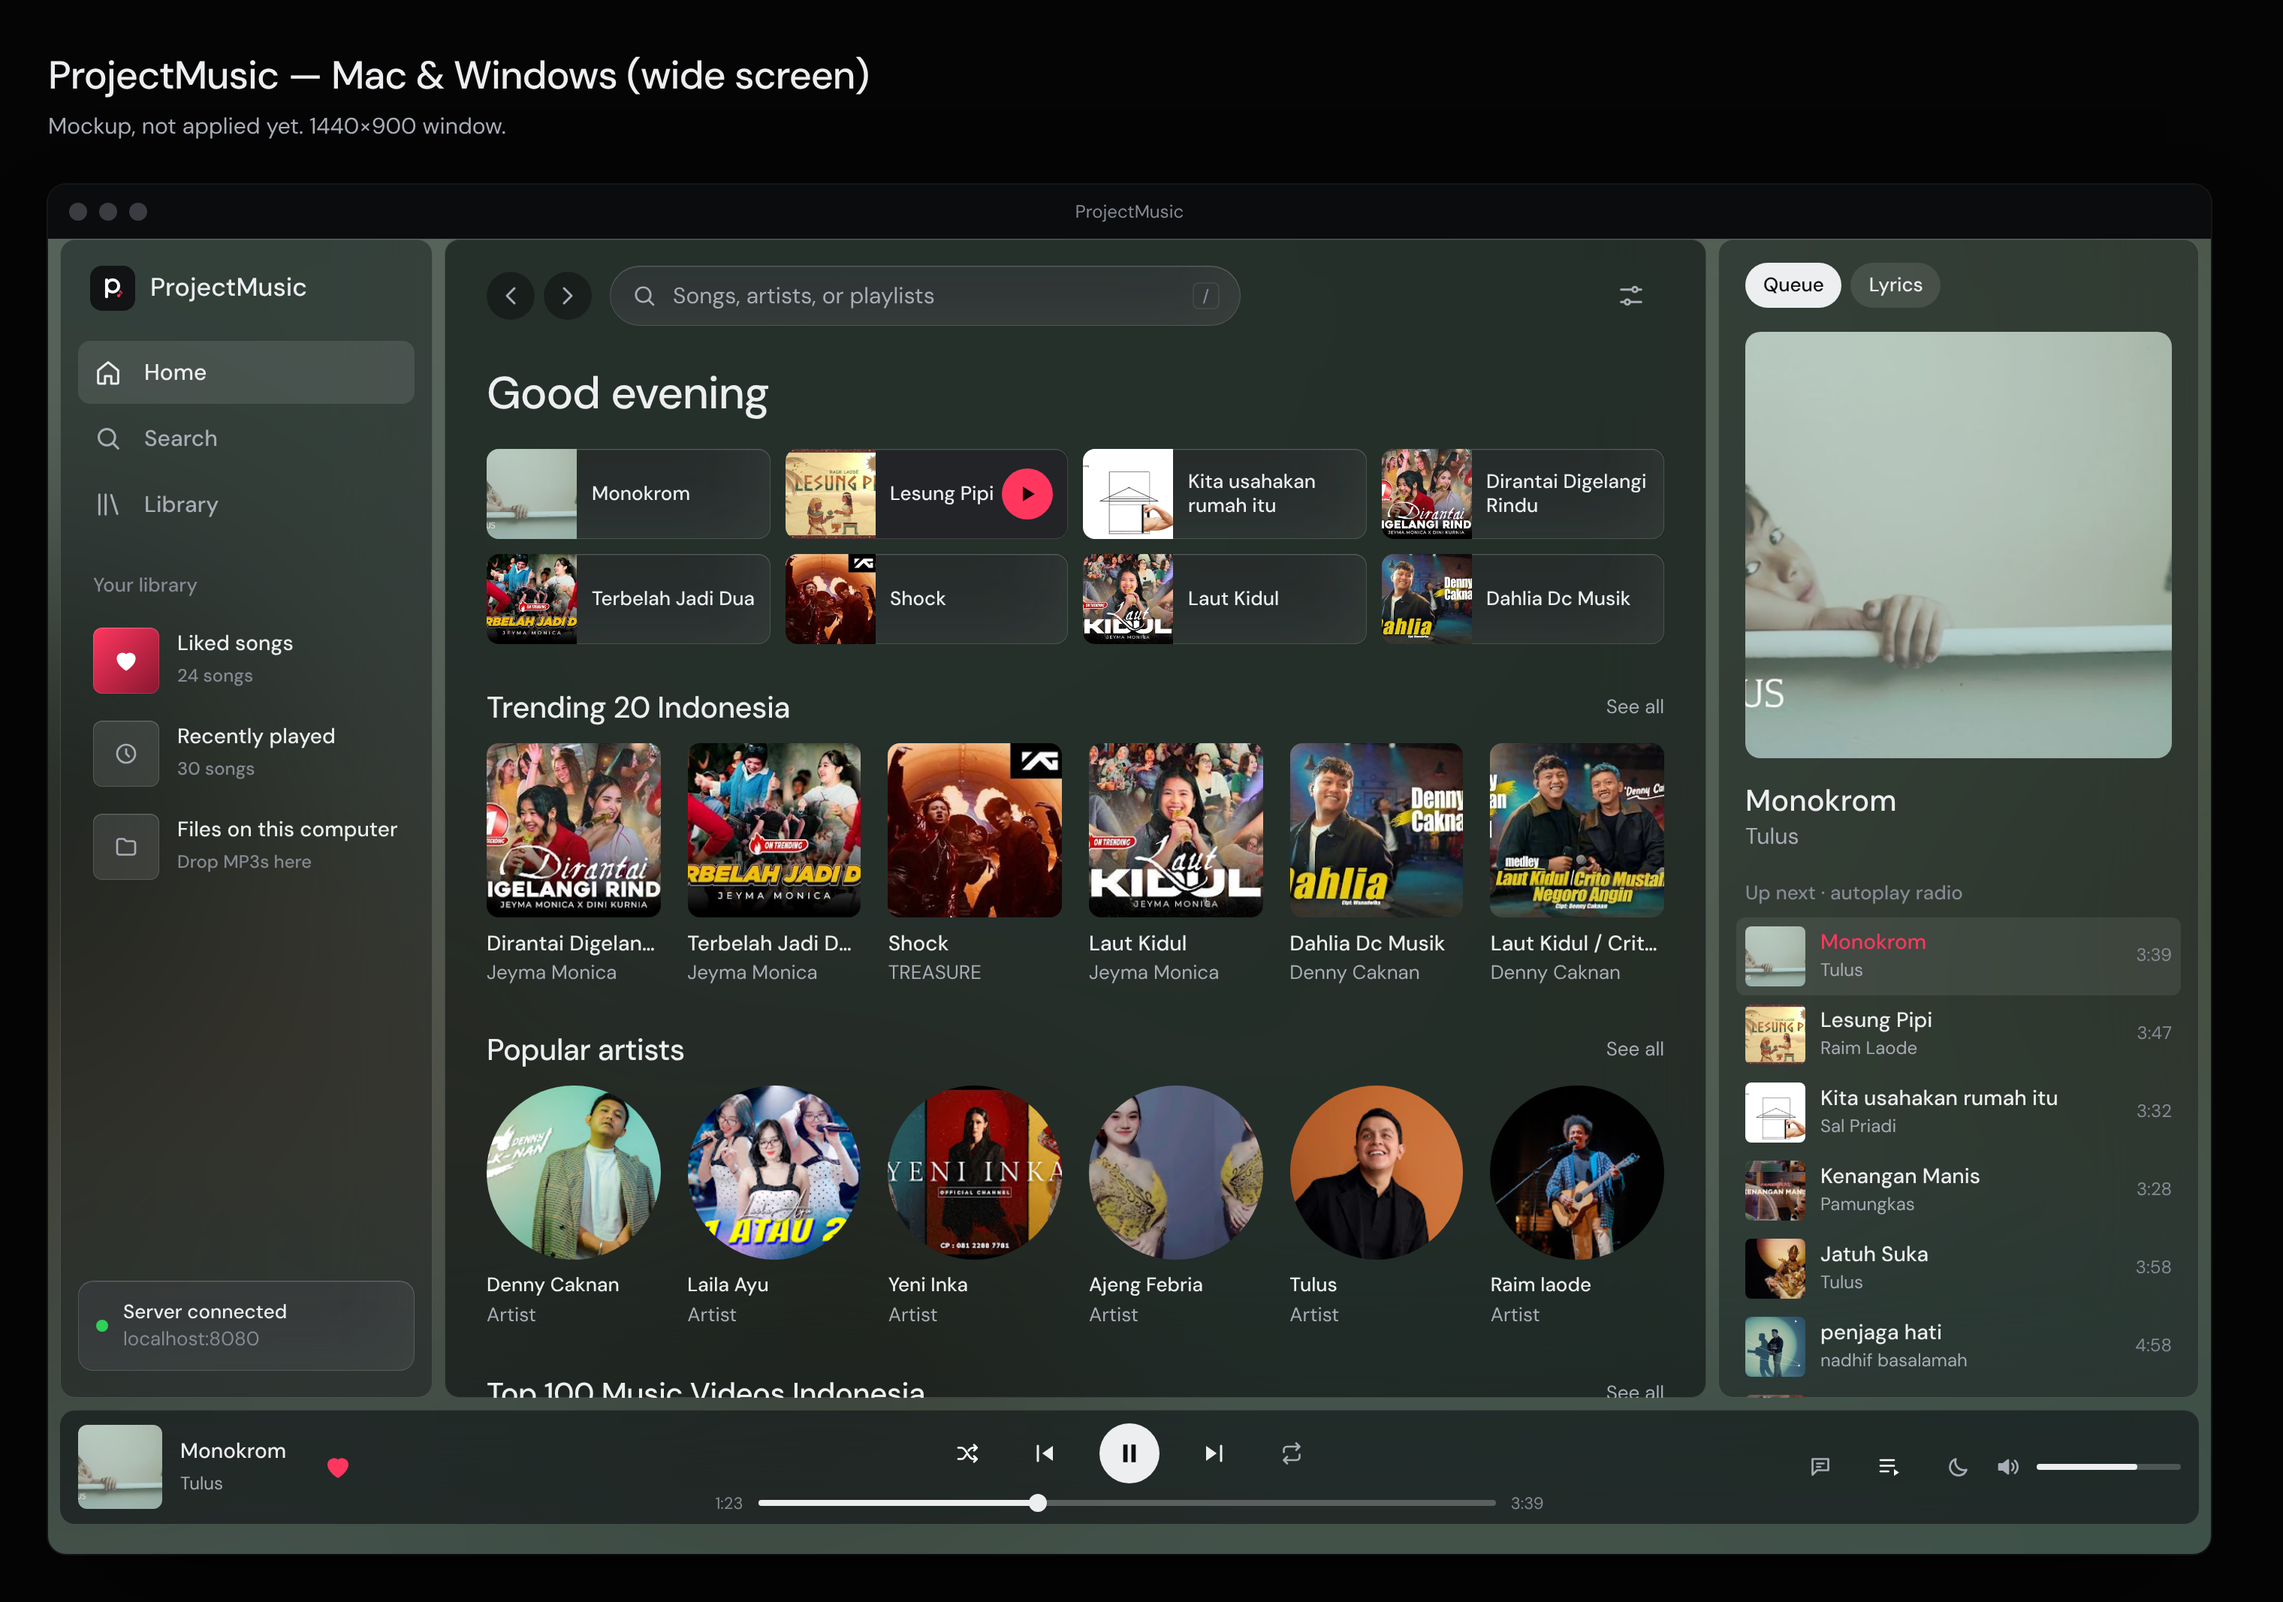
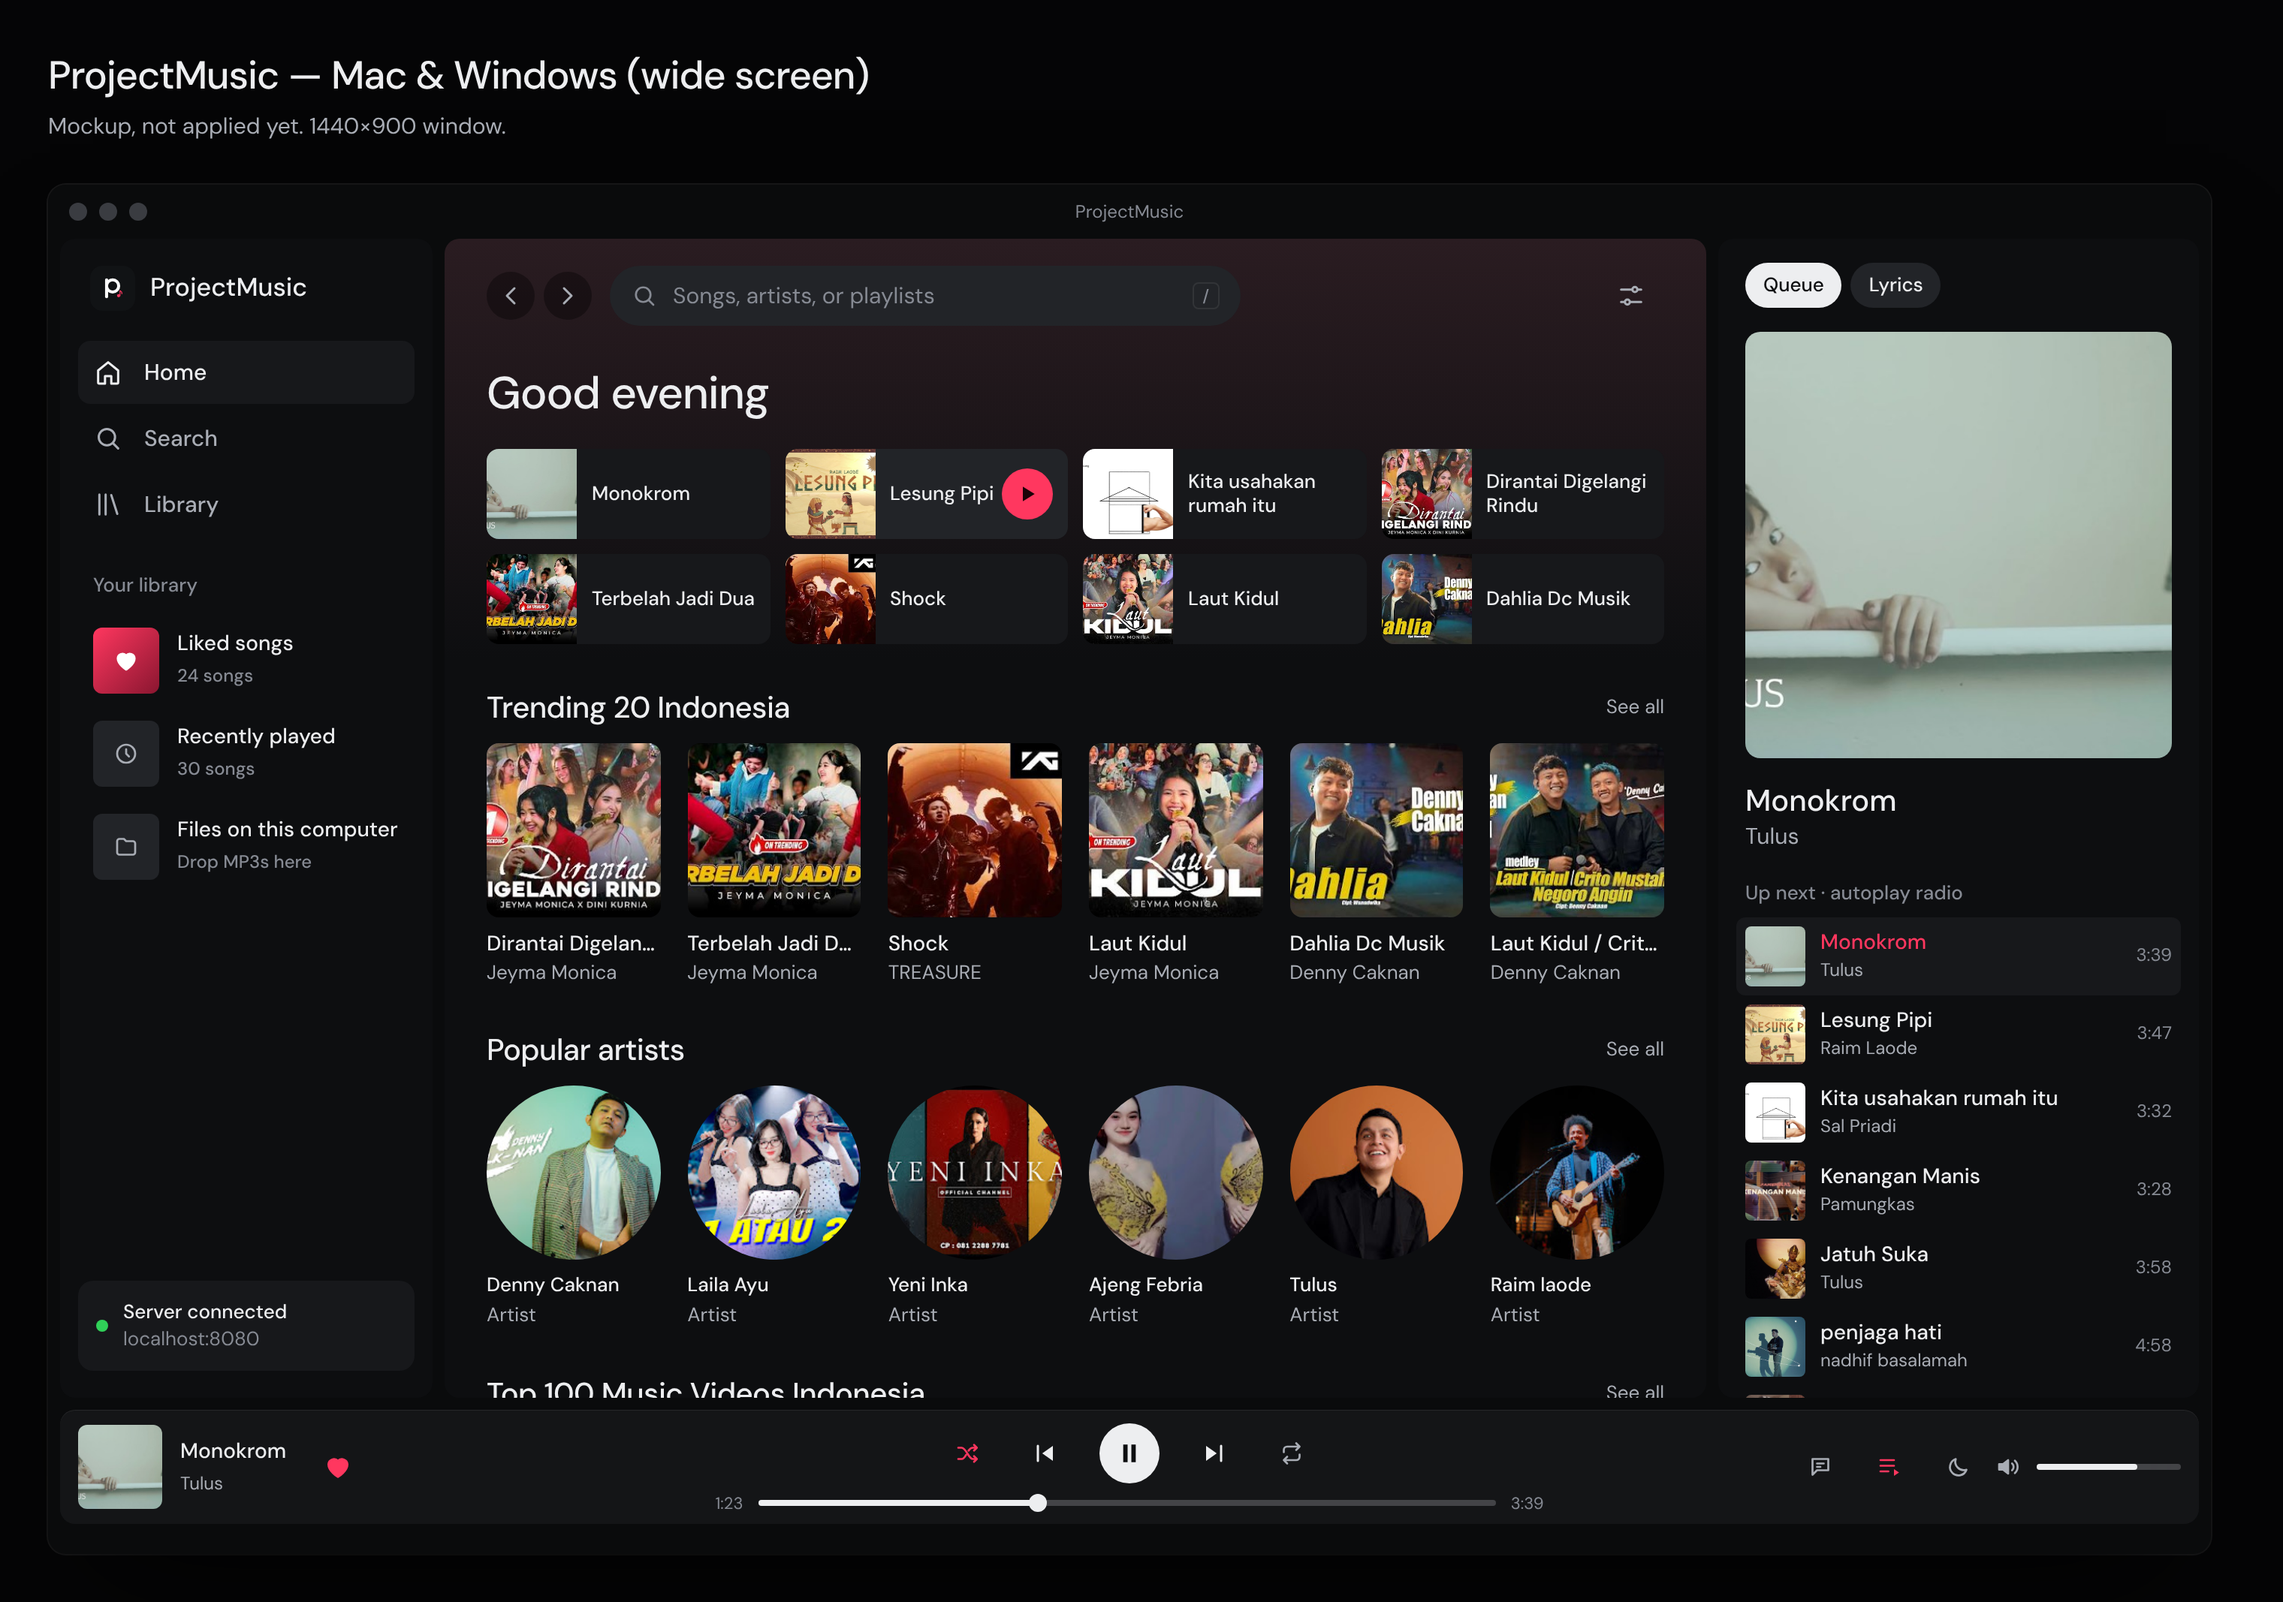
Kurangi efek kaca pada mockup
Kaca tipis hanya untuk elemen yang melayang (bilah tab, mini player,
menu lagu, bilah pemutar desktop); konten dan panel kembali solid,
latar sampul hanya rona lembut di layar pemutar.

diff --git a/docs/desain/glass.css b/docs/desain/glass.css
@@ -1,51 +1,26 @@
-/* Material kaca transparan (gaya Apple). Dimuat setelah mockup.css/desktop.css.
-   Di aplikasi nanti: otomatis jadi solid di HP lemah dan saat
-   "prefers-reduced-transparency" aktif. */
+/* Kaca tipis (versi lebih tenang): material kaca HANYA untuk elemen yang melayang
+   di atas konten — bilah tab, mini player, menu lagu, dan bilah pemutar desktop.
+   Konten tetap solid. Di aplikasi: otomatis solid di HP lemah / Reduce Transparency. */
 :root{
-  --glass:rgba(28,29,33,.52);
-  --glass-strong:rgba(22,23,26,.68);
-  --glass-chip:rgba(255,255,255,.12);
-  --glass-edge:inset 0 0 0 .5px rgba(255,255,255,.14), inset 0 1px 0 rgba(255,255,255,.08);
-  --blur:blur(28px) saturate(180%);
+  --glass:rgba(23,24,27,.78);
+  --glass-edge:inset 0 0 0 .5px rgba(255,255,255,.10);
+  --blur:blur(20px) saturate(140%);
 }
 /* ---------- HP ---------- */
-.phone{isolation:isolate;background:#0b0c0e}
-.ambient{position:absolute;left:-30%;top:-12%;width:160%;height:62%;object-fit:cover;filter:blur(70px) saturate(160%);opacity:.55;z-index:-1;
-  -webkit-mask-image:linear-gradient(#000 40%,transparent);mask-image:linear-gradient(#000 40%,transparent)}
+.phone{isolation:isolate}
+.ambient{display:none}
 .scr{padding-bottom:0}
-.qp{background:rgba(255,255,255,.07);box-shadow:var(--glass-edge);backdrop-filter:var(--blur);-webkit-backdrop-filter:var(--blur)}
-.tile{box-shadow:var(--glass-edge)}
-
-.field{color:var(--ink2);background:rgba(0,0,0,.22);box-shadow:var(--glass-edge);backdrop-filter:var(--blur);-webkit-backdrop-filter:var(--blur)}
-.lt{background:rgba(255,255,255,.08);box-shadow:var(--glass-edge)}
-.srv{background:rgba(255,255,255,.07);box-shadow:var(--glass-edge);backdrop-filter:var(--blur);-webkit-backdrop-filter:var(--blur)}
-.chips span{background:rgba(255,255,255,.09);box-shadow:var(--glass-edge)}
-.tabs{background:var(--glass-strong);border-top:0;box-shadow:inset 0 .5px 0 rgba(255,255,255,.12);backdrop-filter:var(--blur);-webkit-backdrop-filter:var(--blur)}
-.mini{background:var(--glass);box-shadow:var(--glass-edge),0 10px 30px -10px rgba(0,0,0,.6);backdrop-filter:var(--blur);-webkit-backdrop-filter:var(--blur);border-radius:16px}
-.mini .mp{background:rgba(255,255,255,.85)}
-/* Sedang diputar: seluruh latar dari sampul yang diburamkan */
-.np{background:#0b0c0e}
-.npbg{position:absolute;inset:-25%;width:150%;height:150%;object-fit:cover;filter:blur(80px) saturate(170%) brightness(.62);z-index:-1}
-.np::after{content:"";position:absolute;inset:0;z-index:-1;background:linear-gradient(180deg,rgba(0,0,0,0) 40%,rgba(0,0,0,.45))}
-.npart{box-shadow:0 30px 60px -20px rgba(0,0,0,.6)}
-.seek{background:rgba(255,255,255,.25)}
-.chip2{background:var(--glass-chip);box-shadow:var(--glass-edge);backdrop-filter:var(--blur);-webkit-backdrop-filter:var(--blur)}
-.ib.on{color:#fff}.ib.on i{background:#fff}
-/* Menu lagu: lembar kaca di atas konten */
-.dimmed{filter:brightness(.55)}
-.sheet{background:var(--glass);box-shadow:var(--glass-edge),0 -10px 40px rgba(0,0,0,.45);backdrop-filter:blur(36px) saturate(180%);-webkit-backdrop-filter:blur(36px) saturate(180%);border-radius:26px 26px 0 0}
-.grab{background:rgba(255,255,255,.3)}
-.row.hd{border-bottom-color:rgba(255,255,255,.1)}
-/* ---------- Desktop ---------- */
-.app{position:relative;isolation:isolate;overflow:hidden;background:#0b0c0e}
-.appbg{position:absolute;inset:-20%;width:140%;height:140%;object-fit:cover;filter:blur(90px) saturate(170%) brightness(.5);z-index:-1}
-.side,.panel{background:var(--glass);box-shadow:var(--glass-edge);backdrop-filter:var(--blur);-webkit-backdrop-filter:var(--blur)}
-.main{background:rgba(13,14,16,.62);box-shadow:var(--glass-edge);backdrop-filter:var(--blur);-webkit-backdrop-filter:var(--blur)}
-.side>a.on{background:rgba(255,255,255,.1)}
-.side .srv,.qr.now{background:rgba(255,255,255,.08)}
-.side .lt{background:rgba(255,255,255,.1)}
-.main .field{background:rgba(255,255,255,.1);box-shadow:var(--glass-edge)}
-.ptabs span{background:rgba(255,255,255,.1)}
-.bar{background:var(--glass-strong);box-shadow:inset 0 .5px 0 rgba(255,255,255,.12);backdrop-filter:var(--blur);-webkit-backdrop-filter:var(--blur);border-radius:10px;margin-bottom:8px}
+.tabs{background:var(--glass);border-top:0;box-shadow:inset 0 .5px 0 rgba(255,255,255,.08);backdrop-filter:var(--blur);-webkit-backdrop-filter:var(--blur)}
+.mini{background:color-mix(in srgb,var(--tint) 45%,rgba(30,31,35,.82));box-shadow:var(--glass-edge),0 8px 24px -10px rgba(0,0,0,.6);backdrop-filter:var(--blur);-webkit-backdrop-filter:var(--blur)}
+/* Sedang diputar: warna sampul hanya sebagai rona lembut di bagian atas */
+.np{background:var(--bg)}
+.npbg{position:absolute;inset:-20% -20% auto;width:140%;height:75%;object-fit:cover;filter:blur(90px) saturate(120%) brightness(.45);opacity:.7;z-index:-1;
+  -webkit-mask-image:linear-gradient(#000 30%,transparent);mask-image:linear-gradient(#000 30%,transparent)}
+.chip2{background:rgba(255,255,255,.08)}
+/* Menu lagu */
+.dimmed{filter:brightness(.4)}
+.sheet{background:var(--glass);box-shadow:var(--glass-edge),0 -10px 30px rgba(0,0,0,.45);backdrop-filter:var(--blur);-webkit-backdrop-filter:var(--blur)}
+/* ---------- Desktop: panel solid, hanya bilah pemutar yang kaca ---------- */
+.appbg{display:none}
+.bar{background:var(--glass);box-shadow:inset 0 .5px 0 rgba(255,255,255,.08);backdrop-filter:var(--blur);-webkit-backdrop-filter:var(--blur);border-radius:10px;margin-bottom:8px}
 .app{grid-template-rows:772px 84px;padding-bottom:8px;height:876px}
-.chrome{background:#0b0c0e}
